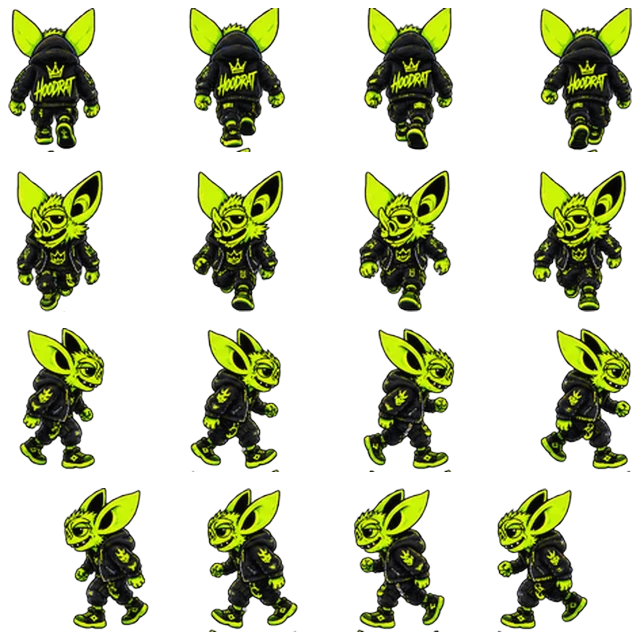
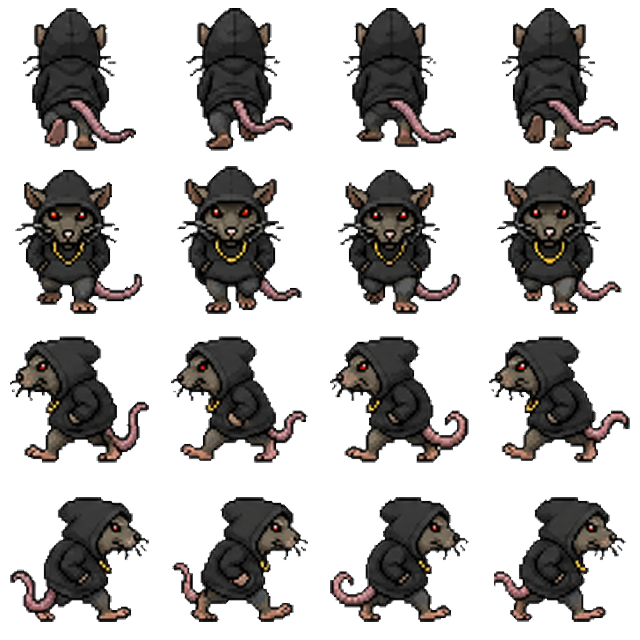
Optimus, le Hoodrat et le Green Bandit, redessines et redecoupes
Trois planches neuves, remises au format du jeu : carrees, quatre
colonnes et quatre lignes de cases de cent soixante, dans l ordre du
moteur — de dos, de face, profil gauche, profil droit.

LES LIGNES SE COUPENT SUR LES CREUX, PAS AU PAS FIXE. Les fichiers
rendus font 640x427 : chaque bande vaut 106,75 pixels et les personnages
debordent de la leur. Coupe au pas fixe, on rogne les pieds d une ligne
ET l on ramasse le sommet du crane de la suivante — un eclat detache qui
entre dans la boite de mesure et fait mettre tout le personnage a
l echelle comme s il faisait deux fois sa taille.

Les COLONNES restent au pas fixe : ce sont les quatre images d une
marche, et les recadrer une par une ferait sauter le personnage d une
image a l autre au lieu de le faire marcher.

J avais d abord retourne la ligne de droite d Optimus, en croyant les
deux profils tournes du meme cote. Ils ne l etaient pas — c est ma
lecture en petit qui etait fausse, et le miroir cassait ce qui marchait.
On le VERIFIE maintenant par la mesure, pas a l oeil : la ligne 3 doit
ressembler davantage au MIROIR de la ligne 2 qu a la ligne 2 elle-meme.

Le script entre dans le depot a cote de planches.py, pour la meme
raison : il a ete refait trois fois et il a recommis les memes erreurs
trois fois.

Claude-Session: https://claude.ai/code/session_01QjqQS5Zhr9NpzpjaVE6t7u

diff --git a/decoupe_creatures.py b/decoupe_creatures.py
@@ -1,0 +1,64 @@
+# -*- coding: utf-8 -*-
+"""Les trois nouvelles planches de creature, decoupees.
+
+Ce que le jeu attend, mesure et non suppose :
+  — une planche CARREE, quatre colonnes et quatre lignes de cases carrees
+    (`cadreDe(img) = naturalWidth / 4`, et le meme nombre sert de hauteur) ;
+  — les lignes dans l'ordre du moteur : DIRS_M = {up:0, down:1, left:2, right:3} ;
+  — les pieds plantes : dans un cycle de marche c'est le corps qui monte et
+    descend, pas le sol.
+
+Les fichiers rendus font 640x427 : des cases de 160 sur 107, hautes comme le
+dessin et non comme la case du jeu. On les recompose en 640x640.
+
+---- LES LIGNES SE COUPENT SUR LES CREUX, PAS AU PAS FIXE ----
+
+Quatre cent vingt-sept ne se divise pas en quatre : chaque bande fait 106,75
+pixels, et les personnages debordent de la leur. Coupe au pas fixe, on rogne
+les pieds d'une ligne ET l'on ramasse le sommet du crane de la suivante — un
+eclat detache qui entre dans la boite de mesure et fait mettre tout le
+personnage a l'echelle comme s'il faisait deux fois sa taille.
+
+Les COLONNES, elles, restent au pas fixe : ce sont les quatre images d'une
+marche, et les recadrer une par une ferait sauter le personnage d'une image a
+l'autre au lieu de le faire marcher.
+"""
+import sys
+sys.path.insert(0, '.')
+from PIL import Image
+import planches as P
+
+CIBLE = 160          # la case du jeu, comme les vingt-deux autres creatures
+
+SOURCES = [
+    ('/tmp/D65-BD2-ED-BD84-4645-BBFA-A8-FC4-DCA767-B.png', 'optimus'),
+    ('/tmp/29794138-BB44-4771-95-D7-907512-F4874-A.png',   'hoodrat'),
+    ('/tmp/4-A93255-B-A1-AF-4208-A7-CF-0-EC9224856-A7.png','sylvain'),
+]
+
+for chemin, cle in SOURCES:
+    src = Image.open(chemin).convert('RGBA')
+    # Le fond est un blanc PLAT : on le propage depuis les bords. Jeter « tous
+    # les gris clairs » mangerait les plaques du robot et le visage pale du
+    # bandit — c'est la lecon 5 en tete de planches.py.
+    src = P.detoure(src, seuilClair=200, seuilGris=26)
+
+    lignes = []
+    for (y0, y1) in P.bandes(src, 4, 'y'):
+        rang = src.crop((0, y0, src.width, y1))
+        lignes.append(P.reguliere(rang, 4, 1)[0])
+
+    # ---- LES ECLATS ----
+    # Un pixel isole colle a un bord entre dans la boite de mesure et fait
+    # mettre tout le personnage a l'echelle comme s'il faisait toute la case.
+    lignes = [[P.nettoie_isoles(P.nettoie(c)) for c in rang] for rang in lignes]
+
+    # ---- UNE SEULE ECHELLE POUR LES SEIZE CASES ----
+    # Sinon le personnage change de taille en se retournant.
+    toutes = [c for rang in lignes for c in rang]
+    e = P.echelle_commune(toutes, CIBLE, 6)
+    posees = [P.pose(rang, CIBLE, marge=6, aligne='bas', e=e) for rang in lignes]
+
+    im = P.planche(posees, CIBLE)
+    P.ecrit(im, 'img/nexus/monstres/%s.webp' % cle)
+    print('%-9s %sx%s  echelle %.3f' % (cle, im.width, im.height, e))
